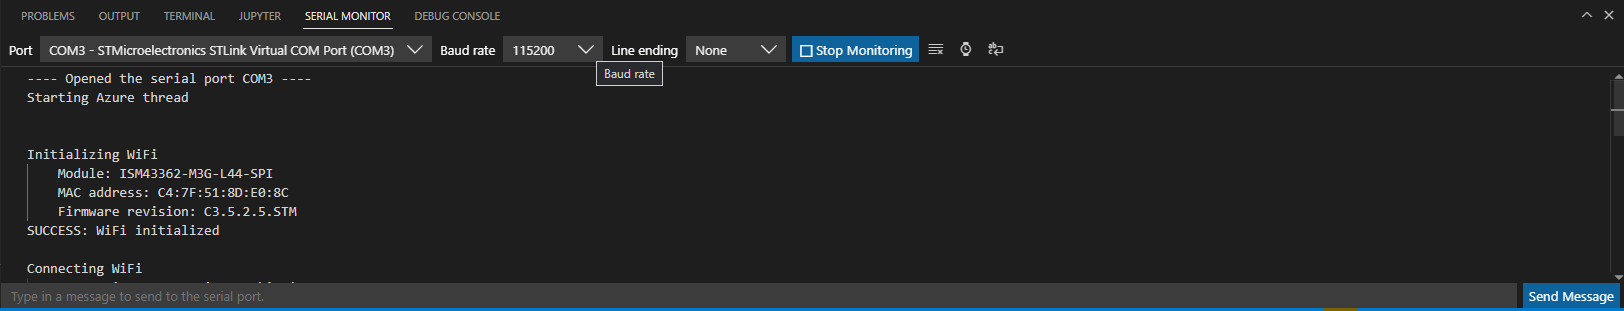
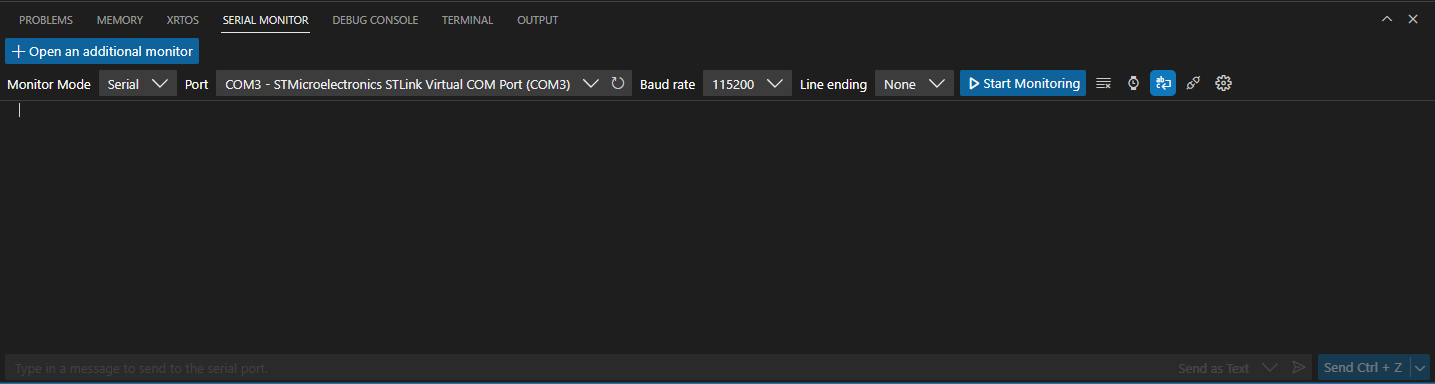
try adding tabs for tcp and serial

diff --git a/docs/embedded/serial-monitor.md b/docs/embedded/serial-monitor.md
@@ -33,16 +33,23 @@ The Serial Monitor allows users to configure, monitor, and communicate with seri
 | **Line Ending** | The line ending to use in messages sent to the connected device | Use the **Line Ending** dropdown | None, LF, CR, CRLF |
 | **Timestamp** | Adds timestamps to the output of data received from the connected port | Use the **timestamp** toggle button | On/Off |
 | **Autoscroll** | Whether to auto-scroll new content that comes from the connected port | Use the **autoscroll** toggle button | On/Off |
-| **Automatic Reconnection** | Allows for automatic reconnection and monitoring of disconnected selected ports | Use the **automatic reconnection** toggle button | On/Off|
+| **Automatic Reconnection** | Allows for automatic reconnection and monitoring of disconnected selected ports | Use the **automatic reconnection** toggle button | On/Off |
 | **Message Encoding** | Can select type of encoding for messages sent to serial port | Use the **message encoding** dropdown | Text (utf8), Hex, Binary |
+| **Data bits** | Can select how many data bits are used for the serial port connection | Use the **Data bits** dropdown in the **additional settings** | 5, 6, 7, 8 |
+| **Stop bits** | Can select how many stop bits are used for the serial port connection | Use the **Stop bits** dropdown in the **additional settings** | 1, 1.5, 2 |
+| **Parity** | Can select what parity is used for the serial port connection | Use the **Parity** dropdown in the **additional settings** | None, Odd, Even, Mark, Space |
+| **File Logging** | Allows the ability to log output to a file | Use the **file logging** toggle button, as well as the **Choose Log File Directory** button to choose the desired directory in the **additional settings** | On/Off |
 
 # [Visual Studio Code](#tab/visual-studio-code)
+
+# [Serial Ports](#tab/serial-ports)
 
 ![Serial Monitor in VSCode](media/serial-monitor-vscode.png)
 
 ## Capabilities
 
 - **Monitor a serial port**: Choose the **Start Monitoring** or **Stop Monitoring** button to control whether to monitor data coming from the port.
+- **Monitor multiple serial ports at a time**: Press the **Open an additional Monitor** button to open another monitor.
 - **Send data to a serial port**: Enter text into the text field at the bottom of the view. Use the **Enter** key or choose the **Send Message** button to send the data.
 - **Clear the Serial Monitor output**: Choose the **Clear Output** button to clear the incoming data text field.
 - **Send preset control signals**: Use the split-button next to the input field to send preset control signals (Ctrl+C, Ctrl+D, Ctrl+X, and Ctrl+Z).
@@ -59,5 +66,35 @@ The Serial Monitor allows users to configure, monitor, and communicate with seri
 | **Autoscroll** | Whether to auto-scroll new content that comes from the connected port | Use the **autoscroll** toggle button | On/Off |
 | **Automatic Reconnection** | Allows for automatic reconnection and monitoring of disconnected selected ports | Use the **automatic reconnection** toggle button | On/Off|
 | **Message Encoding** | Can select type of encoding for messages sent to serial port | Use the **message encoding** dropdown | Text (utf8), Hex, Binary |
+| **Data bits** | Can select how many data bits are used for the serial port connection | Use the **Data bits** dropdown in the **additional settings** | 5, 6, 7, 8 |
+| **Stop bits** | Can select how many stop bits are used for the serial port connection | Use the **Stop bits** dropdown in the **additional settings** | 1, 1.5, 2 |
+| **Parity** | Can select what parity is used for the serial port connection | Use the **Parity** dropdown in the **additional settings** | None, Odd, Even, Mark, Space |
+| **File Logging** | Allows the ability to log output to a file | Use the **file logging** toggle button, as well as the **Choose Log File Directory** button to choose the desired directory in the **additional settings** | On/Off |
+
+# [TCP Ports](#tab/tcp-ports)
+
+![Serial Monitor in VSCode](media/serial-monitor-vscode.png)
+
+## Capabilities
+
+- **Monitor a TCP port**: Choose the **Start Monitoring** or **Stop Monitoring** button to control whether to monitor data coming from the port.
+- **Monitor multiple TCP ports at a time**: Press the **Open an additional Monitor** button to open another monitor.
+- **Send data to a TCP port**: Enter text into the text field at the bottom of the view. Use the **Enter** key or choose the **Send Message** button to send the data.
+- **Clear the Serial Monitor output**: Choose the **Clear Output** button to clear the incoming data text field.
+- **Send preset control signals**: Use the split-button next to the input field to send preset control signals (Ctrl+C, Ctrl+D, Ctrl+X, and Ctrl+Z).
+- **Configure Serial Monitor and port connection settings**: See the following table to learn about the settings that the Serial Monitor provides.
+
+## Configurable settings
+
+| Settings | Description | Usage | Available options |
+|--|--|--|--|
+| **Host** | Name of your host address | Use the **Host** text box to enter your host name | Any string that matches a valid host |
+| **Port** | The port number of your address | Use the **Port** text box | Any valid TCP port |
+| **Timestamp** | Adds timestamps to the output of data received from the connected port | Use the **timestamp** toggle button | On/Off |
+| **Autoscroll** | Whether to auto-scroll new content that comes from the connected port | Use the **autoscroll** toggle button | On/Off |
+| **Serial Wire Output (SWO)** | Can enable Serial Wire Output (SWO) decoding for data coming from the TCP port | Use the **Serial Wire Output** toggle in the **additional settings** | On/Off |
+| **Stop bits** | Can select how many stop bits are used for the serial port connection | Use the **Stop bits** dropdown in the **additional settings** | 1, 1.5, 2 |
+| **Parity** | Can select what parity is used for the serial port connection | Use the **Parity** dropdown in the **additional settings** | None, Odd, Even, Mark, Space |
+| **File Logging** | Allows the ability to log output to a file | Use the **file logging** toggle button, as well as the **Choose Log File Directory** button to choose the desired directory in the **additional settings** | On/Off |
 
 ---
